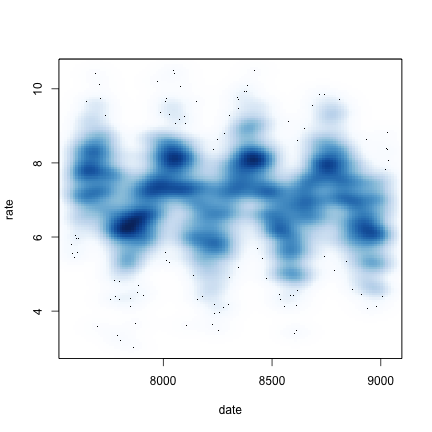
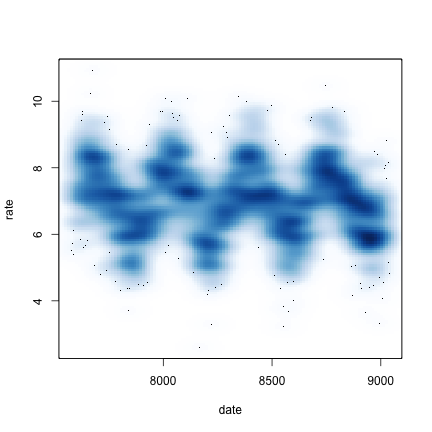
minor edits to lecture 9b

diff --git a/week_09_advanced_graphics/09b_Graphics_menagerie.md b/week_09_advanced_graphics/09b_Graphics_menagerie.md
@@ -33,12 +33,12 @@ kable(head(df))
 
 |      num1|     num2|cat1 |cat2 |
 |---------:|--------:|:----|:----|
-| 6.4531998| 4.672754|C    |e    |
-| 0.1222506| 2.314665|B    |c    |
-| 0.1541922| 5.554767|C    |a    |
-| 8.0005447| 9.680428|C    |b    |
-| 4.1147863| 1.297650|B    |a    |
-| 6.5072518| 6.662385|C    |b    |
+| 2.2058237| 1.689121|C    |b    |
+| 0.0216266| 2.014678|A    |b    |
+| 7.3280681| 9.232133|B    |d    |
+| 6.1539779| 8.775885|E    |c    |
+| 6.0520227| 7.982650|C    |c    |
+| 6.9188230| 8.244367|C    |a    |
 
 Numeric vs. Numeric
 ========================================================
@@ -87,12 +87,12 @@ Flu Season
 
 ```
         date     rate month_num month season year
-1 1990-10-02 5.791783        10   Oct   fall 1990
-2 1990-10-03 7.341260        10   Oct   fall 1990
-3 1990-10-04 5.565334        10   Oct   fall 1990
-4 1990-10-05 7.176974        10   Oct   fall 1990
-5 1990-10-06 7.581741        10   Oct   fall 1990
-6 1990-10-07 6.504430        10   Oct   fall 1990
+1 1990-10-02 7.531883        10   Oct   fall 1990
+2 1990-10-03 5.505455        10   Oct   fall 1990
+3 1990-10-04 7.114126        10   Oct   fall 1990
+4 1990-10-05 7.062548        10   Oct   fall 1990
+5 1990-10-06 5.732839        10   Oct   fall 1990
+6 1990-10-07 8.159107        10   Oct   fall 1990
 ```
 
 Flu Rate by Date
@@ -144,7 +144,7 @@ with(flu, smoothScatter(date, rate, transformation=exp))
 
 ![plot of chunk density_rate_by_date_exp](09b_Graphics_menagerie-figure/density_rate_by_date_exp-1.png) 
 
-Corrgrams
+Correlated Variables
 ========================================================
 
 ```r
@@ -167,7 +167,7 @@ df2 <- data.frame(
 )
 ```
 
-Corrgrams
+Corrgram
 ========================================================
 
 ```r
@@ -233,19 +233,20 @@ Get More Themes
 ```
 library(devtools)
 install_github("jrnold/ggthemes")
+library(ggthemes)
 ```
 
 The Economist Theme
 ===
 
+
 ```r
-library(ggthemes)
 g + theme_economist()
 ```
 
 ![plot of chunk ggthemes1](09b_Graphics_menagerie-figure/ggthemes1-1.png) 
 
-Wall Street Journal Theme
+The Wall Street Journal Theme
 ===
 
 ```r
@@ -319,7 +320,7 @@ g3 + facet_grid(year ~ month)
 
 ![plot of chunk faceting_flu3](09b_Graphics_menagerie-figure/faceting_flu3-1.png) 
 
-rgl: Three Dimensional Data
+Three Dimensional Data: rgl Demo
 ===
 
 ```r
